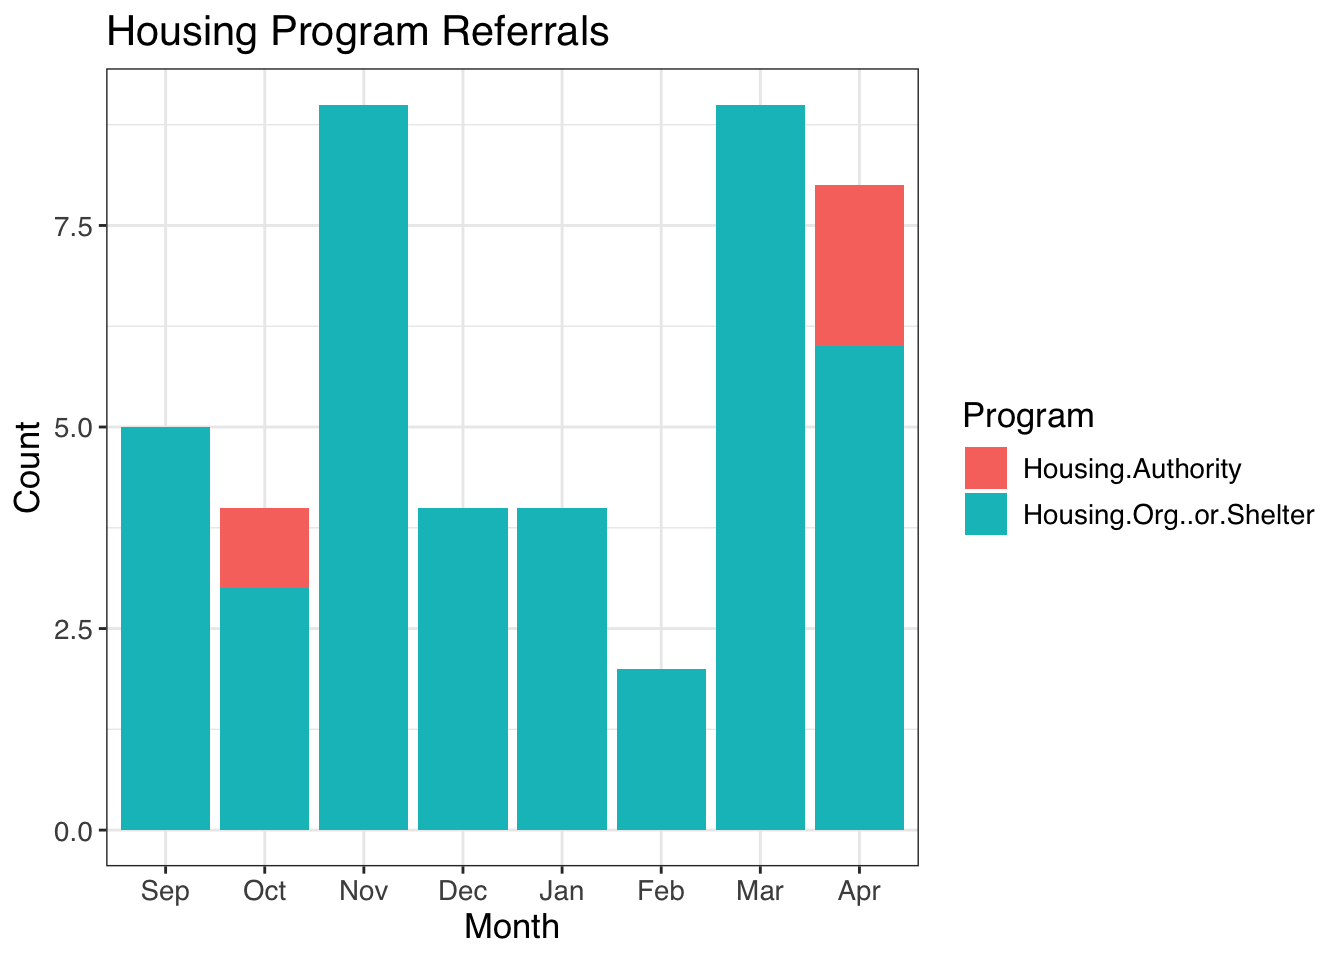
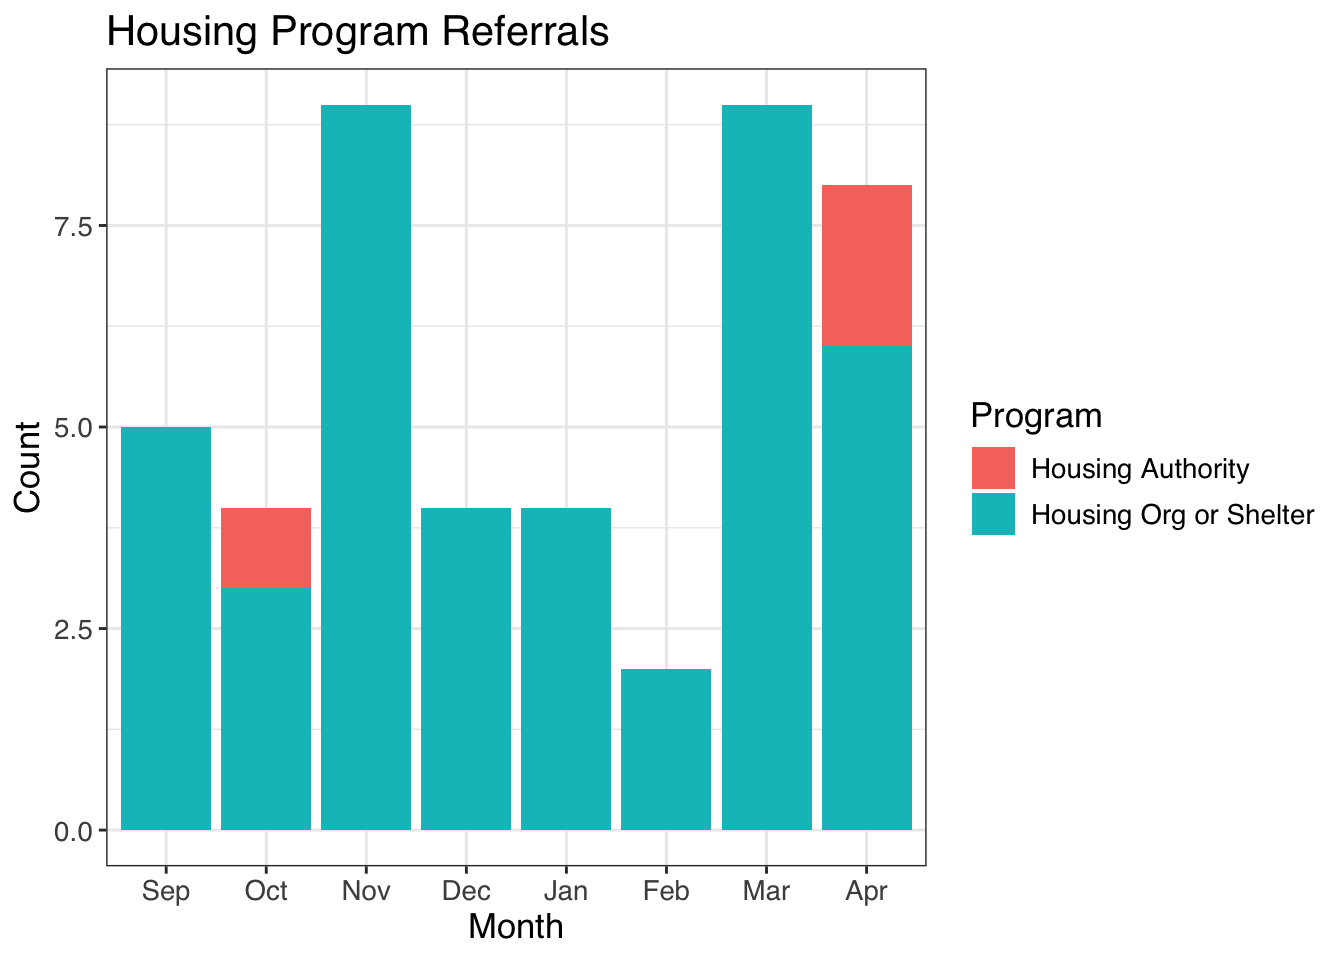
Correct legend naming

diff --git a/PeerConvos.html b/PeerConvos.html
@@ -7,7 +7,7 @@
 <meta name="viewport" content="width=device-width, initial-scale=1.0, user-scalable=yes">
 
 <meta name="author" content="Noah Adams">
-<meta name="dcterms.date" content="2026-05-30">
+<meta name="dcterms.date" content="2026-05-31">
 
 <title>Basic Needs Center: Peer Conversations</title>
 <style>
@@ -69,7 +69,7 @@ ul.task-list li input[type="checkbox"] {
     <div>
     <div class="quarto-title-meta-heading">Published</div>
     <div class="quarto-title-meta-contents">
-      <p class="date">May 30, 2026</p>
+      <p class="date">May 31, 2026</p>
     </div>
   </div>
   
@@ -130,23 +130,23 @@ ul.task-list li input[type="checkbox"] {
 <p>While referrals to the BNC Food Pantry are high, the bar chart above and the table below highlight that we don’t make many referrals to off-campus food banks, when maybe we should as part of someone’s food strategy.</p>
 <div class="cell">
 <div class="cell-output-display">
-<div id="akyzydhvjn" style="padding-left:0px;padding-right:0px;padding-top:10px;padding-bottom:10px;overflow-x:auto;overflow-y:auto;width:auto;height:auto;">
-<style>#akyzydhvjn table {
+<div id="jfqzdwqqvx" style="padding-left:0px;padding-right:0px;padding-top:10px;padding-bottom:10px;overflow-x:auto;overflow-y:auto;width:auto;height:auto;">
+<style>#jfqzdwqqvx table {
   font-family: sans, system-ui, 'Segoe UI', Roboto, Helvetica, Arial, sans-serif, 'Apple Color Emoji', 'Segoe UI Emoji', 'Segoe UI Symbol', 'Noto Color Emoji';
   -webkit-font-smoothing: antialiased;
   -moz-osx-font-smoothing: grayscale;
 }
 
-#akyzydhvjn thead, #akyzydhvjn tbody, #akyzydhvjn tfoot, #akyzydhvjn tr, #akyzydhvjn td, #akyzydhvjn th {
+#jfqzdwqqvx thead, #jfqzdwqqvx tbody, #jfqzdwqqvx tfoot, #jfqzdwqqvx tr, #jfqzdwqqvx td, #jfqzdwqqvx th {
   border-style: none;
 }
 
-#akyzydhvjn p {
+#jfqzdwqqvx p {
   margin: 0;
   padding: 0;
 }
 
-#akyzydhvjn .gt_table {
+#jfqzdwqqvx .gt_table {
   display: table;
   border-collapse: collapse;
   line-height: normal;
@@ -172,12 +172,12 @@ ul.task-list li input[type="checkbox"] {
   border-left-color: #D3D3D3;
 }
 
-#akyzydhvjn .gt_caption {
+#jfqzdwqqvx .gt_caption {
   padding-top: 4px;
   padding-bottom: 4px;
 }
 
-#akyzydhvjn .gt_title {
+#jfqzdwqqvx .gt_title {
   color: #333333;
   font-size: 125%;
   font-weight: initial;
@@ -189,7 +189,7 @@ ul.task-list li input[type="checkbox"] {
   border-bottom-width: 0;
 }
 
-#akyzydhvjn .gt_subtitle {
+#jfqzdwqqvx .gt_subtitle {
   color: #333333;
   font-size: 85%;
   font-weight: initial;
@@ -201,7 +201,7 @@ ul.task-list li input[type="checkbox"] {
   border-top-width: 0;
 }
 
-#akyzydhvjn .gt_heading {
+#jfqzdwqqvx .gt_heading {
   background-color: #DCD5E7;
   text-align: center;
   border-bottom-color: #FFFFFF;
@@ -213,13 +213,13 @@ ul.task-list li input[type="checkbox"] {
   border-right-color: #D3D3D3;
 }
 
-#akyzydhvjn .gt_bottom_border {
+#jfqzdwqqvx .gt_bottom_border {
   border-bottom-style: solid;
   border-bottom-width: 2px;
   border-bottom-color: #D3D3D3;
 }
 
-#akyzydhvjn .gt_col_headings {
+#jfqzdwqqvx .gt_col_headings {
   border-top-style: solid;
   border-top-width: 2px;
   border-top-color: #D3D3D3;
@@ -234,7 +234,7 @@ ul.task-list li input[type="checkbox"] {
   border-right-color: #D3D3D3;
 }
 
-#akyzydhvjn .gt_col_heading {
+#jfqzdwqqvx .gt_col_heading {
   color: #333333;
   background-color: #FFFFFF;
   font-size: 100%;
@@ -254,7 +254,7 @@ ul.task-list li input[type="checkbox"] {
   overflow-x: hidden;
 }
 
-#akyzydhvjn .gt_column_spanner_outer {
+#jfqzdwqqvx .gt_column_spanner_outer {
   color: #333333;
   background-color: #FFFFFF;
   font-size: 100%;
@@ -266,15 +266,15 @@ ul.task-list li input[type="checkbox"] {
   padding-right: 4px;
 }
 
-#akyzydhvjn .gt_column_spanner_outer:first-child {
+#jfqzdwqqvx .gt_column_spanner_outer:first-child {
   padding-left: 0;
 }
 
-#akyzydhvjn .gt_column_spanner_outer:last-child {
+#jfqzdwqqvx .gt_column_spanner_outer:last-child {
   padding-right: 0;
 }
 
-#akyzydhvjn .gt_column_spanner {
+#jfqzdwqqvx .gt_column_spanner {
   border-bottom-style: solid;
   border-bottom-width: 2px;
   border-bottom-color: #D3D3D3;
@@ -286,11 +286,11 @@ ul.task-list li input[type="checkbox"] {
   width: 100%;
 }
 
-#akyzydhvjn .gt_spanner_row {
+#jfqzdwqqvx .gt_spanner_row {
   border-bottom-style: hidden;
 }
 
-#akyzydhvjn .gt_group_heading {
+#jfqzdwqqvx .gt_group_heading {
   padding-top: 8px;
   padding-bottom: 8px;
   padding-left: 5px;
@@ -316,7 +316,7 @@ ul.task-list li input[type="checkbox"] {
   text-align: left;
 }
 
-#akyzydhvjn .gt_empty_group_heading {
+#jfqzdwqqvx .gt_empty_group_heading {
   padding: 0.5px;
   color: #333333;
   background-color: #FFFFFF;
@@ -331,15 +331,15 @@ ul.task-list li input[type="checkbox"] {
   vertical-align: middle;
 }
 
-#akyzydhvjn .gt_from_md > :first-child {
+#jfqzdwqqvx .gt_from_md > :first-child {
   margin-top: 0;
 }
 
-#akyzydhvjn .gt_from_md > :last-child {
+#jfqzdwqqvx .gt_from_md > :last-child {
   margin-bottom: 0;
 }
 
-#akyzydhvjn .gt_row {
+#jfqzdwqqvx .gt_row {
   padding-top: 8px;
   padding-bottom: 8px;
   padding-left: 5px;
@@ -358,7 +358,7 @@ ul.task-list li input[type="checkbox"] {
   overflow-x: hidden;
 }
 
-#akyzydhvjn .gt_stub {
+#jfqzdwqqvx .gt_stub {
   color: #333333;
   background-color: #FFFFFF;
   font-size: 100%;
@@ -371,7 +371,7 @@ ul.task-list li input[type="checkbox"] {
   padding-right: 5px;
 }
 
-#akyzydhvjn .gt_stub_row_group {
+#jfqzdwqqvx .gt_stub_row_group {
   color: #333333;
   background-color: #FFFFFF;
   font-size: 100%;
@@ -385,15 +385,15 @@ ul.task-list li input[type="checkbox"] {
   vertical-align: top;
 }
 
-#akyzydhvjn .gt_row_group_first td {
+#jfqzdwqqvx .gt_row_group_first td {
   border-top-width: 2px;
 }
 
-#akyzydhvjn .gt_row_group_first th {
+#jfqzdwqqvx .gt_row_group_first th {
   border-top-width: 2px;
 }
 
-#akyzydhvjn .gt_summary_row {
+#jfqzdwqqvx .gt_summary_row {
   color: #333333;
   background-color: #FFFFFF;
   text-transform: inherit;
@@ -403,16 +403,16 @@ ul.task-list li input[type="checkbox"] {
   padding-right: 5px;
 }
 
-#akyzydhvjn .gt_first_summary_row {
+#jfqzdwqqvx .gt_first_summary_row {
   border-top-style: solid;
   border-top-color: #D3D3D3;
 }
 
-#akyzydhvjn .gt_first_summary_row.thick {
+#jfqzdwqqvx .gt_first_summary_row.thick {
   border-top-width: 2px;
 }
 
-#akyzydhvjn .gt_last_summary_row {
+#jfqzdwqqvx .gt_last_summary_row {
   padding-top: 8px;
   padding-bottom: 8px;
   padding-left: 5px;
@@ -422,7 +422,7 @@ ul.task-list li input[type="checkbox"] {
   border-bottom-color: #D3D3D3;
 }
 
-#akyzydhvjn .gt_grand_summary_row {
+#jfqzdwqqvx .gt_grand_summary_row {
   color: #333333;
   background-color: #FFFFFF;
   text-transform: inherit;
@@ -432,7 +432,7 @@ ul.task-list li input[type="checkbox"] {
   padding-right: 5px;
 }
 
-#akyzydhvjn .gt_first_grand_summary_row {
+#jfqzdwqqvx .gt_first_grand_summary_row {
   padding-top: 8px;
   padding-bottom: 8px;
   padding-left: 5px;
@@ -442,7 +442,7 @@ ul.task-list li input[type="checkbox"] {
   border-top-color: #D3D3D3;
 }
 
-#akyzydhvjn .gt_last_grand_summary_row_top {
+#jfqzdwqqvx .gt_last_grand_summary_row_top {
   padding-top: 8px;
   padding-bottom: 8px;
   padding-left: 5px;
@@ -452,11 +452,11 @@ ul.task-list li input[type="checkbox"] {
   border-bottom-color: #D3D3D3;
 }
 
-#akyzydhvjn .gt_striped {
+#jfqzdwqqvx .gt_striped {
   background-color: rgba(128, 128, 128, 0.05);
 }
 
-#akyzydhvjn .gt_table_body {
+#jfqzdwqqvx .gt_table_body {
   border-top-style: solid;
   border-top-width: 2px;
   border-top-color: #D3D3D3;
@@ -465,7 +465,7 @@ ul.task-list li input[type="checkbox"] {
   border-bottom-color: #D3D3D3;
 }
 
-#akyzydhvjn .gt_footnotes {
+#jfqzdwqqvx .gt_footnotes {
   color: #333333;
   background-color: #FFFFFF;
   border-bottom-style: none;
@@ -479,7 +479,7 @@ ul.task-list li input[type="checkbox"] {
   border-right-color: #D3D3D3;
 }
 
-#akyzydhvjn .gt_footnote {
+#jfqzdwqqvx .gt_footnote {
   margin: 0px;
   font-size: 90%;
   padding-top: 4px;
@@ -488,7 +488,7 @@ ul.task-list li input[type="checkbox"] {
   padding-right: 5px;
 }
 
-#akyzydhvjn .gt_sourcenotes {
+#jfqzdwqqvx .gt_sourcenotes {
   color: #333333;
   background-color: #FFFFFF;
   border-bottom-style: none;
@@ -502,7 +502,7 @@ ul.task-list li input[type="checkbox"] {
   border-right-color: #D3D3D3;
 }
 
-#akyzydhvjn .gt_sourcenote {
+#jfqzdwqqvx .gt_sourcenote {
   font-size: 90%;
   padding-top: 4px;
   padding-bottom: 4px;
@@ -510,72 +510,72 @@ ul.task-list li input[type="checkbox"] {
   padding-right: 5px;
 }
 
-#akyzydhvjn .gt_left {
+#jfqzdwqqvx .gt_left {
   text-align: left;
 }
 
-#akyzydhvjn .gt_center {
+#jfqzdwqqvx .gt_center {
   text-align: center;
 }
 
-#akyzydhvjn .gt_right {
+#jfqzdwqqvx .gt_right {
   text-align: right;
   font-variant-numeric: tabular-nums;
 }
 
-#akyzydhvjn .gt_font_normal {
+#jfqzdwqqvx .gt_font_normal {
   font-weight: normal;
 }
 
-#akyzydhvjn .gt_font_bold {
+#jfqzdwqqvx .gt_font_bold {
   font-weight: bold;
 }
 
-#akyzydhvjn .gt_font_italic {
+#jfqzdwqqvx .gt_font_italic {
   font-style: italic;
 }
 
-#akyzydhvjn .gt_super {
+#jfqzdwqqvx .gt_super {
   font-size: 65%;
 }
 
-#akyzydhvjn .gt_footnote_marks {
+#jfqzdwqqvx .gt_footnote_marks {
   font-size: 75%;
   vertical-align: 0.4em;
   position: initial;
 }
 
-#akyzydhvjn .gt_asterisk {
+#jfqzdwqqvx .gt_asterisk {
   font-size: 100%;
   vertical-align: 0;
 }
 
-#akyzydhvjn .gt_indent_1 {
+#jfqzdwqqvx .gt_indent_1 {
   text-indent: 5px;
 }
 
-#akyzydhvjn .gt_indent_2 {
+#jfqzdwqqvx .gt_indent_2 {
   text-indent: 10px;
 }
 
-#akyzydhvjn .gt_indent_3 {
+#jfqzdwqqvx .gt_indent_3 {
   text-indent: 15px;
 }
 
-#akyzydhvjn .gt_indent_4 {
+#jfqzdwqqvx .gt_indent_4 {
   text-indent: 20px;
 }
 
-#akyzydhvjn .gt_indent_5 {
+#jfqzdwqqvx .gt_indent_5 {
   text-indent: 25px;
 }
 
-#akyzydhvjn .katex-display {
+#jfqzdwqqvx .katex-display {
   display: inline-flex !important;
   margin-bottom: 0.75em !important;
 }
 
-#akyzydhvjn div.Reactable > div.rt-table > div.rt-thead > div.rt-tr.rt-tr-group-header > div.rt-th-group:after {
+#jfqzdwqqvx div.Reactable > div.rt-table > div.rt-thead > div.rt-tr.rt-tr-group-header > div.rt-th-group:after {
   height: 0px !important;
 }
 </style>
